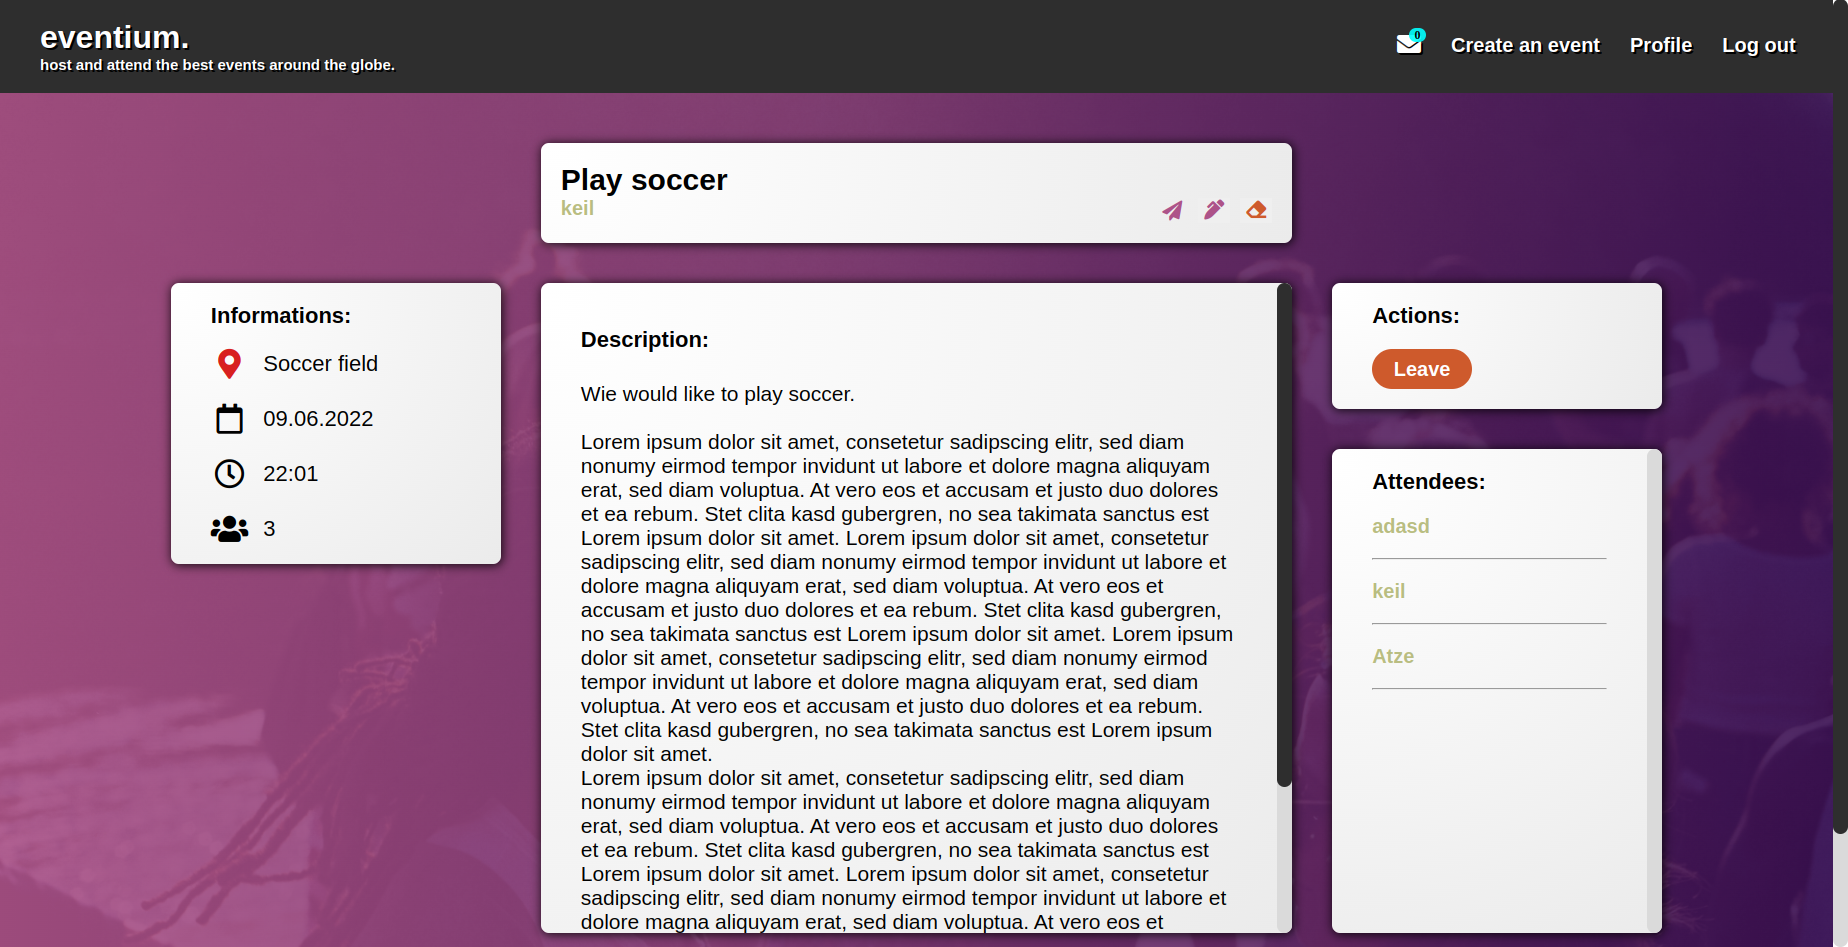
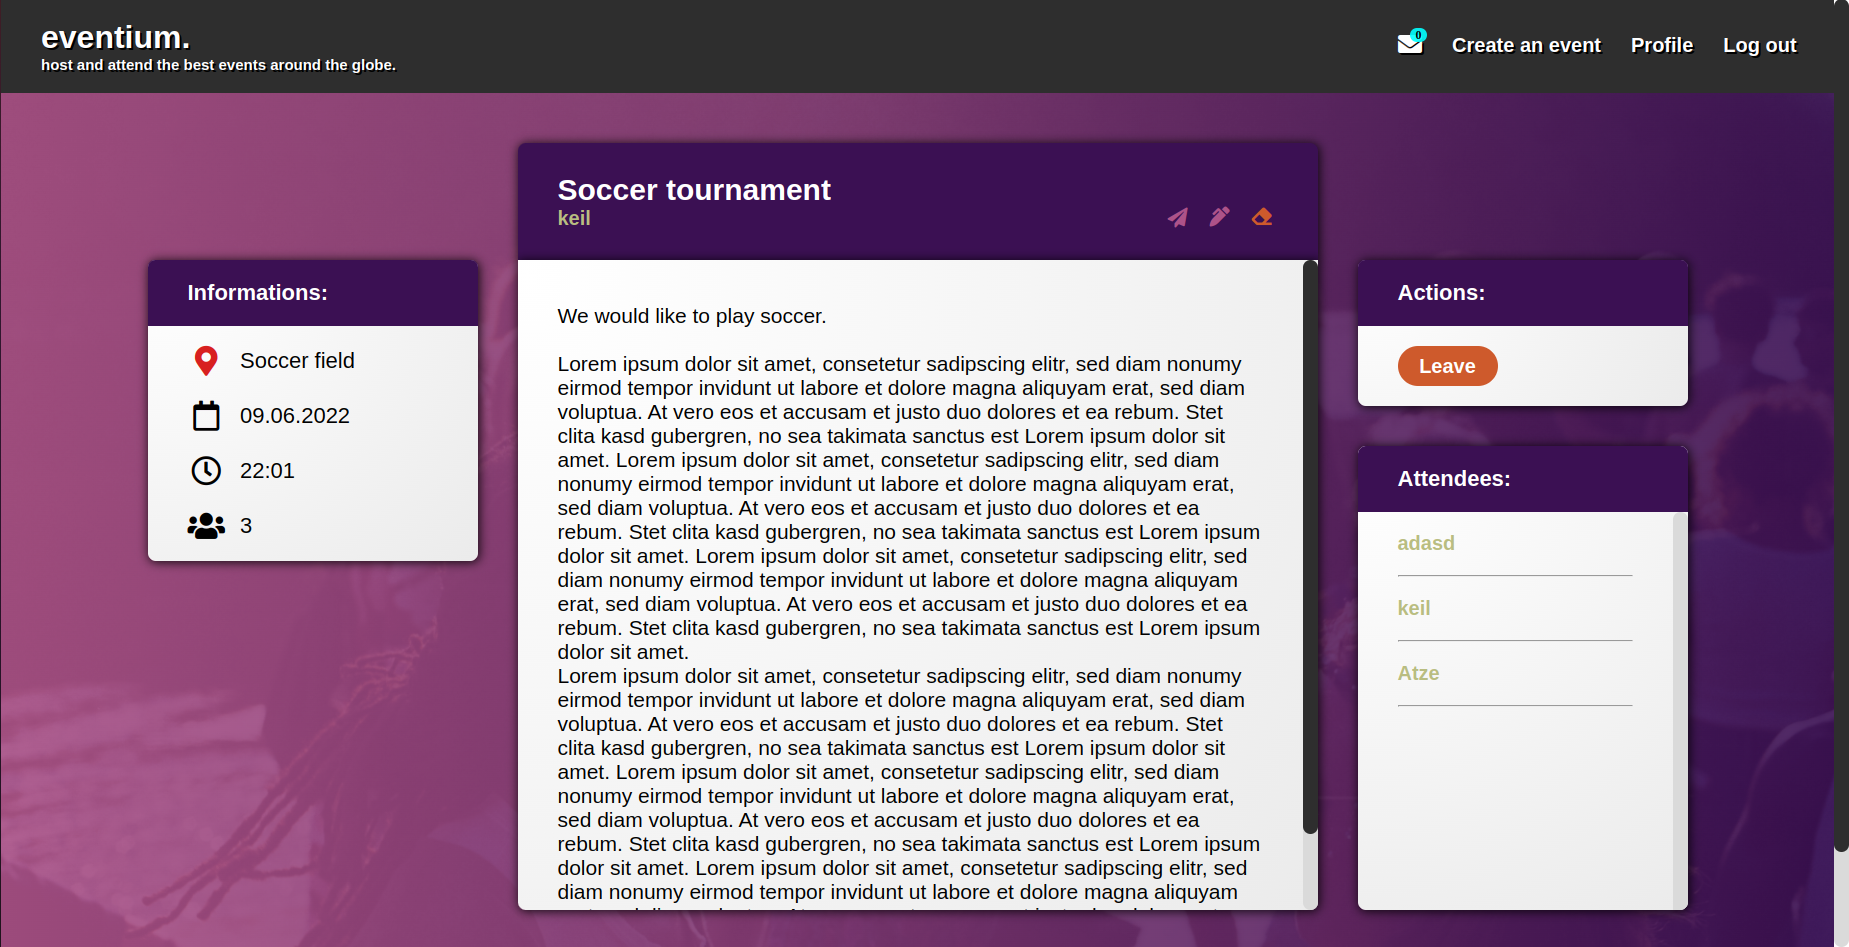
add subheader-wrapper

diff --git a/app/assets/stylesheets/show_event.css b/app/assets/stylesheets/show_event.css
@@ -2,9 +2,9 @@
   position: relative;
   display: grid;
   grid-template: 
-              '. header .' auto
-              'infos desc actions-att' 650px /1fr 1.5fr 1fr;
-  row-gap: 40px;
+              '. header-desc .' auto
+              'infos header-desc actions-att' 650px /1fr 1.5fr 1fr;
+  row-gap: 0px;
   column-gap: 40px;
   min-height: 80vh;
   background-image: linear-gradient(to right, rgba(173, 83, 137, 0.9), rgba(59, 16, 83, 0.9)),
@@ -15,23 +15,46 @@
   padding: 50px 0px;
 }
 
-.event-show .title-wrapper{
-  background-image: radial-gradient( circle farthest-corner at 1.3% 2.8%,  rgb(255, 255, 255) 0%,
-                                   rgb(235, 235, 235) 100.2% );
-  color: black;
+.header-desc{
+  grid-area: header-desc;
+}
+
+.event-show .header-desc #title-wrapper{
+  background-color: rgba(59, 16, 83, 1) !important;
+  color: white;
   min-width: 650px;
   width: 800px;
   box-sizing: border-box;
   height: auto;
   justify-self: center;
-  padding: 20px 20px;
-  border-radius: 8px;
+  padding: 30px 40px;
+  border-radius: 8px 8px 0px 0px;
   box-shadow: 1px 1px 10px 1px rgba(0, 0, 0, 0.8);
   display: flex;
   flex-direction: row;
   justify-content: space-between;
 
   grid-area: header;
+}
+
+.event-show .header-desc #title-wrapper p{
+  margin-bottom: 0px;
+}
+
+.event-show .subtitle-wrapper{
+  background-color: rgba(59, 16, 83, 1);
+  color: white;
+  width: 100%;
+  border-radius: 7px 7px 0px 0px;
+  margin-left: -40px;
+  padding: 20px 40px;
+  margin-right: -40px;
+  margin-top: -20px;
+  margin-bottom: 20px;
+}
+
+.event-show .subtitle-wrapper h4{
+  margin-bottom: 0px;
 }
 
 .event-show .title-wrapper h3{
@@ -57,6 +80,10 @@
   gap: 10px;
 }
 
+.title-right form button{
+  background-color: transparent;
+}
+
 .event-show h3{
   font-size: 30px;
 }
@@ -79,7 +106,6 @@
 .event-show .event-informations{
   background-image: radial-gradient( circle farthest-corner at 1.3% 2.8%,  rgb(255, 255, 255) 0%,
                                    rgb(235, 235, 235) 100.2% );
-
   padding: 20px 40px;
   color: black;
   width: 250px;
@@ -120,7 +146,7 @@
 
   padding: 20px 40px;
   color: black;
-  border-radius: 8px;
+  border-radius: 0px 0px 8px 8px;
   box-shadow: 1px 1px 10px 1px rgba(0, 0, 0, 0.8);
   height: 650px;
   min-width: 350px;
@@ -229,7 +255,22 @@
   border-radius: 8px;
   box-shadow: 1px 1px 10px 1px rgba(0, 0, 0, 0.8);
   height: 100%;
+  overflow: hidden;
+}
+
+.event-attendees .subtitle-wrapper{
+  margin-bottom: 0px;
+}
+
+.event-attendees-content{
   overflow-y: scroll;
+  width: 100%;
+  height: 100%;
+  padding-left: 40px;
+  padding-right: 40px;
+  margin-left: -40px;
+  margin-right: 80px;
+  padding-bottom: 0px;
 }
 
 .event-attendees p.hostname{

diff --git a/app/assets/stylesheets/form.css b/app/assets/stylesheets/form.css
@@ -20,6 +20,35 @@
   padding: 40px 60px;
   border-radius: 8px;
   box-shadow: 1px 1px 10px 1px rgba(0, 0, 0, 0.8);
+  overflow: hidden;
+}
+
+.subtitle-wrapper{
+  background-color: rgba(59, 16, 83, 1);
+  color: white;
+  width: 100%;
+  border-radius: 7px 7px 0px 0px;
+  margin-left: -80px;
+  padding: 30px 120px;
+  margin-right: -80px;
+  margin-top: -40px;
+  margin-bottom: 30px;
+}
+
+.subtitle-wrapper h2{
+  font-size: 26px;
+  margin-top: 0px;
+  margin-bottom: 0px;
+  margin-left: -40px;
+  text-align: left;
+  max-width: 500px;
+  margin-right: auto;
+}
+
+.subtitle-wrapper p{
+  text-align: left;
+  margin-left: -40px;
+  margin-bottom: 0px;
 }
 
 .login-heading{
@@ -49,9 +78,10 @@
   justify-items: center;
   color: black;
   background-image: radial-gradient( circle farthest-corner at 1.3% 2.8%,  rgb(255, 255, 255) 0%, rgb(235, 235, 235) 100.2% );
-  padding: 40px 80px;
+  padding: 40px 60px;
   border-radius: 8px;
   box-shadow: 1px 1px 10px 1px rgba(0, 0, 0, 0.8);
+  overflow: hidden;
 }
 
 .signup-heading{
@@ -91,6 +121,7 @@
   padding: 40px 80px;
   border-radius: 8px;
   box-shadow: 1px 1px 10px 1px rgba(0, 0, 0, 0.8);
+  overflow: hidden;
 }
 
 .forgotpassword-heading{
@@ -148,11 +179,16 @@
   box-shadow: 1px 1px 10px 1px rgba(0, 0, 0, 0.8);
 }
 
+.newevent-content{
+  overflow: hidden;
+}
+
 .newevent-content h1{
   font-size: 26px;
   margin-top: 0px;
-  margin-left: auto;
-  text-align: center;
+  margin-bottom: 0px;
+  margin-left: -40px;
+  text-align: left;
   max-width: 500px;
   margin-right: auto;
 }

diff --git a/app/assets/stylesheets/profile.css b/app/assets/stylesheets/profile.css
@@ -7,8 +7,21 @@
   padding-bottom: 140px;
 }
 
+.user-events .subtitle-wrapper{
+  background-color: rgba(59, 16, 83, 1);
+  color: white;
+  width: 100%;
+  border-radius: 7px 7px 0px 0px;
+  margin-left: 0px;
+  padding: 30px 0px;
+  margin-right: 0px;
+  margin-top: -40px;
+  margin-bottom: 40px;
+}
+
 .profile-content h1{
   margin-top: 0px;
+  margin-bottom: 0px;
   margin-left: 40px;
   font-size: 40px;
   text-shadow: 2px 2px black;
@@ -34,9 +47,10 @@
   background-image: radial-gradient( circle farthest-corner at 1.3% 2.8%,  rgb(255, 255, 255) 0%, rgb(235, 235, 235) 100.2% );
   box-shadow: 1px 1px 10px 1px rgb(0 0 0 / 80%);
   border-radius: 8px;
-  margin: 40px 10vw 0px 10vw;
+  margin: 10px 10vw 0px 10vw;
   padding: 40px 0px 50px 0px;
   height: auto;
+  overflow: hidden;
 }
 
 .profile-content .upcoming-events{

diff --git a/app/assets/stylesheets/index.css b/app/assets/stylesheets/index.css
@@ -59,13 +59,21 @@ h3{
 }
 
 .event{
-  background-image: radial-gradient( circle farthest-corner at 1.3% 2.8%,  rgb(255, 255, 255) 0%, rgb(235, 235, 235) 100.2% );
+  background-image: radial-gradient( circle farthest-corner at 1.3% 2.8%,  rgb(255, 255, 255) 0%,
+                                   rgb(235, 235, 235) 100.2% );
+  background-size: cover;
+  background-position: 50% 50%;
+  color: black;
   box-shadow: 1px 0px 2px 2px rgba(0, 0, 0, 0.253);
   width: 300px;
   height: 100%;
   padding: 0px;
   border-radius: 6px;
   overflow: hidden;
+}
+
+.event .event-content .event-info-grid i{
+  color: black;
 }
 
 .events-container a{

diff --git a/app/assets/stylesheets/application.css b/app/assets/stylesheets/application.css
@@ -236,6 +236,10 @@ footer a i:hover{
   color: rgb(216, 32, 32);
 }
 
+.event .event-content .event-info-grid .fa-map-marker-alt{
+  color: rgb(216, 32, 32);
+}
+
 .alerts-and-notices{
   background-color: white;
   box-shadow: 1px 1px 10px 1px rgb(0 0 0 / 80%);

diff --git a/app/assets/stylesheets/invitations.css b/app/assets/stylesheets/invitations.css
@@ -56,6 +56,17 @@
   padding: 20px;
 }
 
+.invitation p {
+  text-overflow: ellipsis;
+  width: 100%;
+  white-space: nowrap;
+  overflow: hidden;
+}
+
+.invitation p a{
+  text-overflow: ellipsis;
+}
+
 .invitation h3{
   font-size: 20px;
 }
